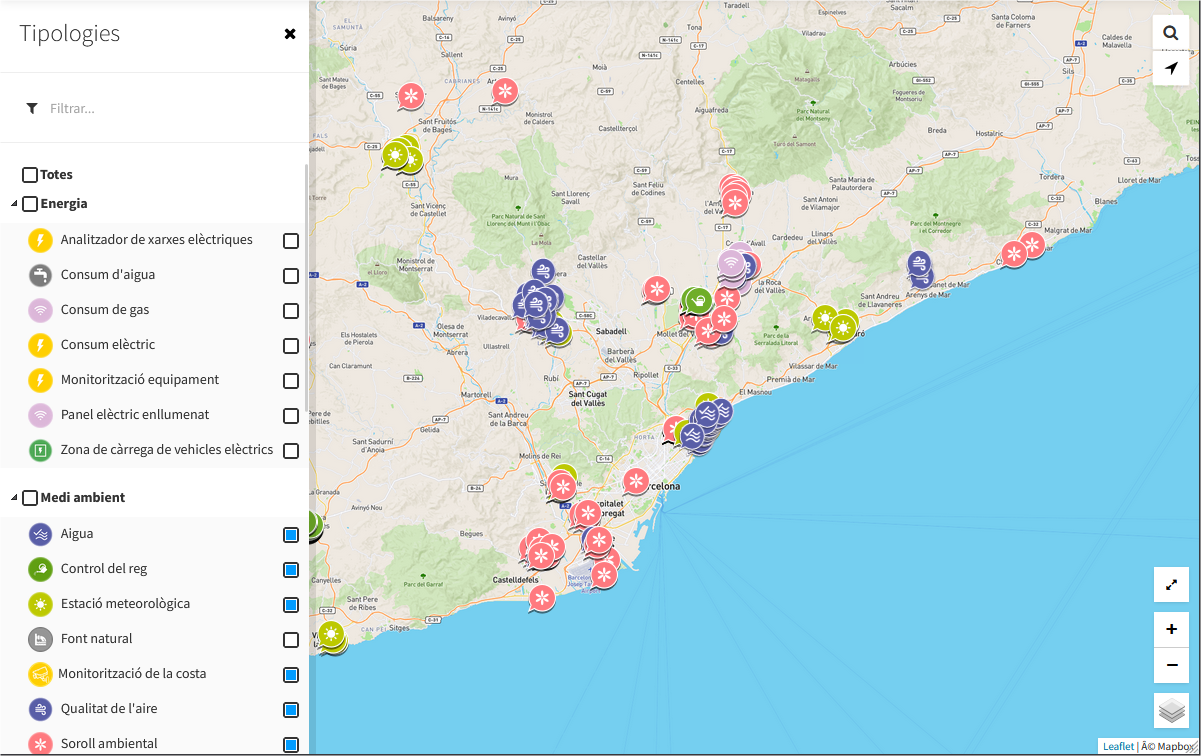
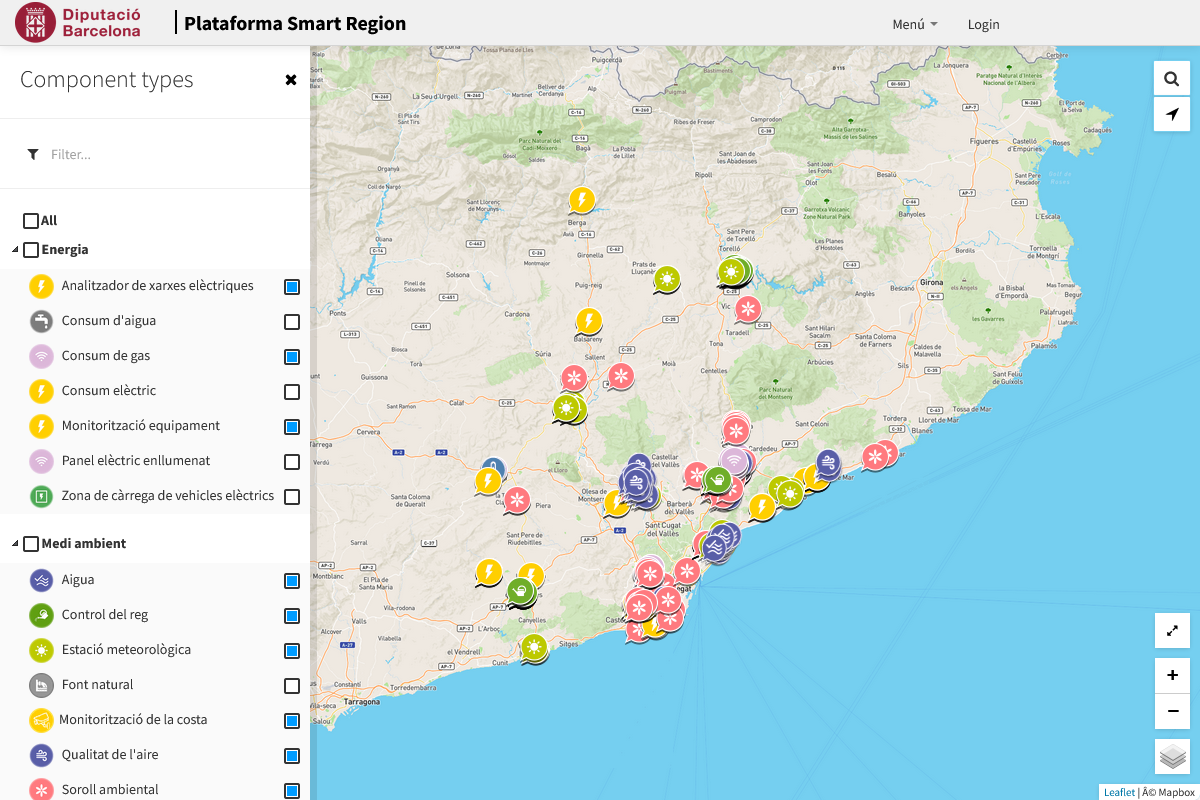
adsfadsf

diff --git a/docs/catalog_and_maps/map_viewers.rst b/docs/catalog_and_maps/map_viewers.rst
@@ -31,10 +31,15 @@ the left sidebar:
 
 .. image:: /_static/images/catalog_and_maps/universal_viewer_002.png
 
-From here, you can select or deselect component typologies and categories (grouping of typologies),
-and or select / unselect all the categories / typologies:
+From here, you can select or deselect **component typologies** and **categories** (a *category* 
+is a grouping of typologies), and or select / unselect all the categories / typologies (by checking / 
+unchecking the *All* checkbox):
 
 .. image:: /_static/images/catalog_and_maps/universal_viewer_003.png
+
+.. image:: /_static/images/catalog_and_maps/universal_viewer_004.png
+
+.. image:: /_static/images/catalog_and_maps/universal_viewer_005.png
 
 
 
